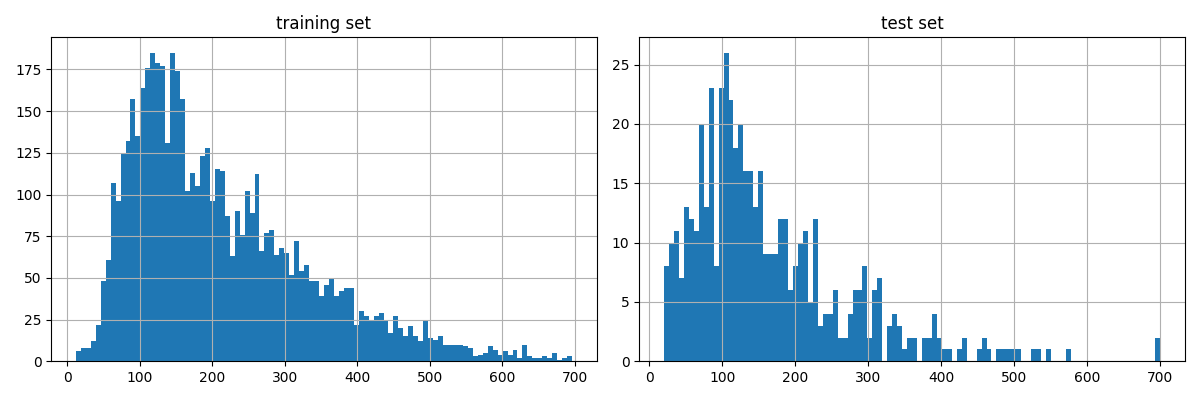
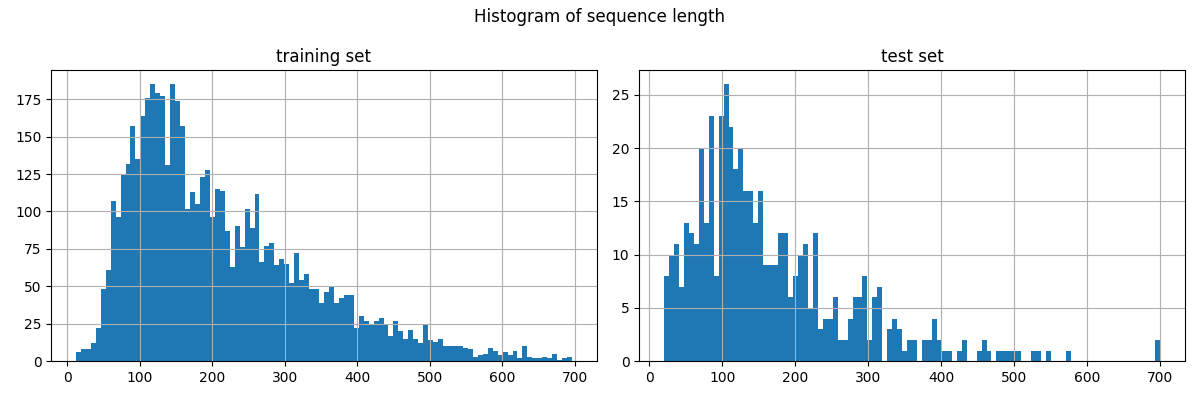
appended sup titles.

diff --git a/stats.py b/stats.py
@@ -42,6 +42,7 @@ def main(args):
     ax = plt.subplot(1, 2, 2)
     pd.DataFrame(test_seq_len, columns=['test set']).hist(bins=100, ax=ax)
 
+    plt.suptitle('Histogram of sequence length')
     plt.tight_layout()
     plt.savefig('figure/seq_len.png')
     
@@ -76,6 +77,7 @@ def main(args):
     df.plot(kind='bar', ax=ax)
     ax.grid(True)
 
+    plt.suptitle('Histogram of Amino Acid Residues')
     plt.tight_layout()
     plt.savefig('figure/amino_acid.png')
 
@@ -102,6 +104,7 @@ def main(args):
     df.plot(kind='bar', ax=ax)
     ax.grid(True)
 
+    plt.suptitle('Histogram of 8-state Secondary Structure')
     plt.tight_layout()
     plt.savefig('figure/ss.png')
 
